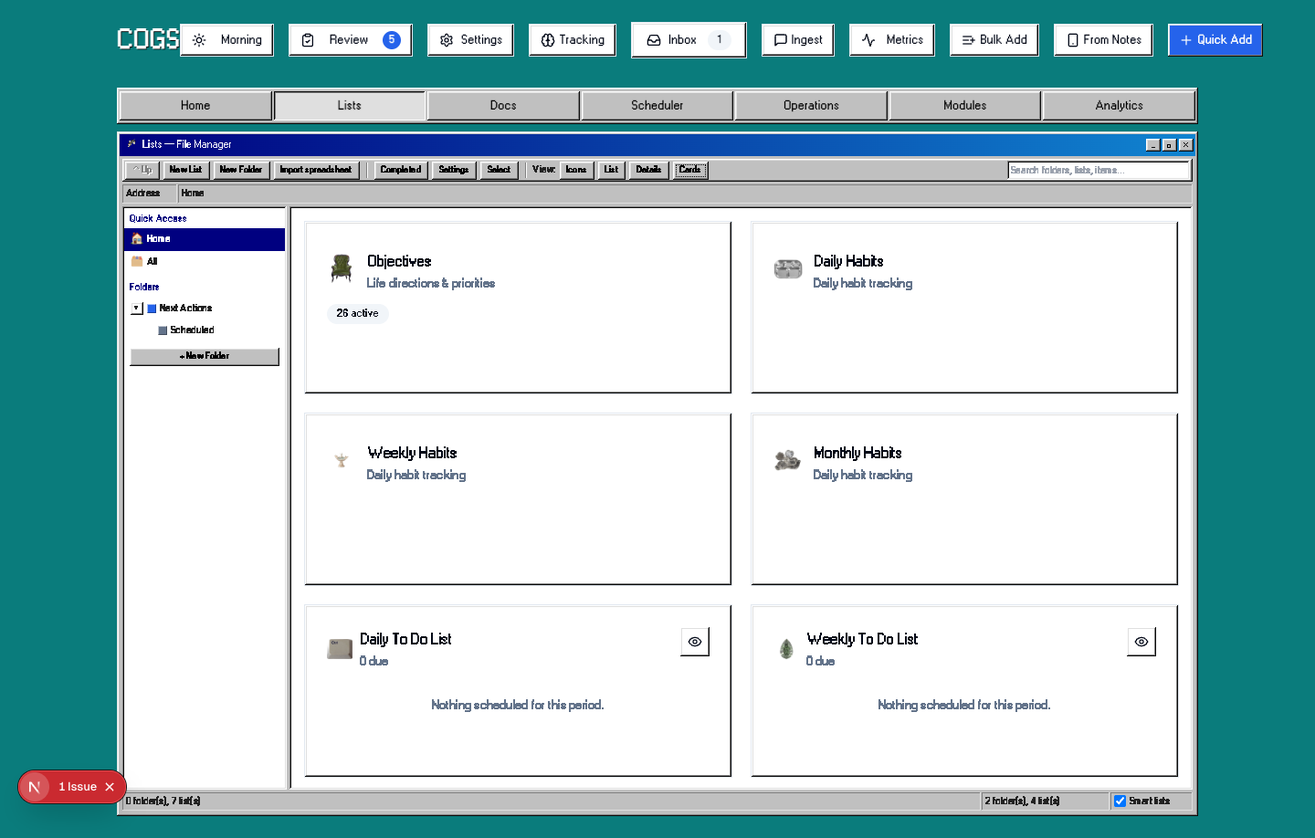
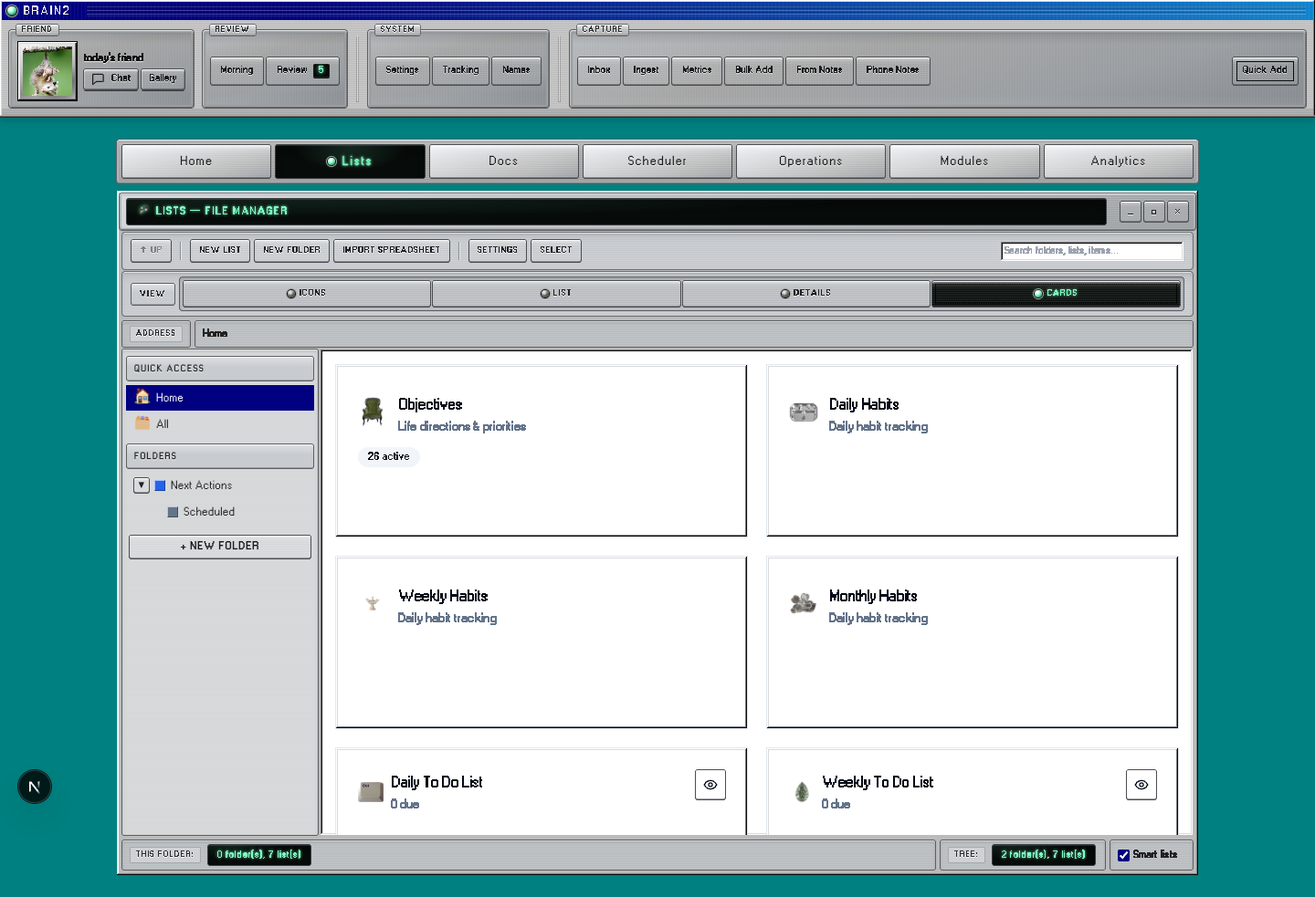
Document schedule roll-up, inbox slices, Details without ticks, and the new shots.
SPEC_MAPPING §4.4 records Select N, Select unsorted, the / Dated-or-Bare slice,
shift-click range, the sitting foot, and the heavier phosphor at 10 or more.
§5 Details has no complete or missed ticks. §7 records shared Scheduler
selection, quiet Mark complete, the 1-point period placement, and Eventually.
§7.7 carry-over is rollUpExpiredSchedules (day → week → month → year →
unscheduled) on hydrate, local midnight, and visibility, with schedulePlacements
kept and push counters untouched.

DESIGN_STYLE notes the unsaved-changes fascia (.w95-confirm) and the Lists
view-key bay. CANONICAL_FIELDS lists schedulePlacements. tree.md / tree.txt
name eventually-list, schedule-credit, day-clock, and use-day-rollover.
lib/README and hooks/README match. The root README and components README
point at the in-place Lists jump.

Screenshot PNGs and sidecars were recaptured for Lists (folder, list, cards,
checklist, default, spreadsheet, details) and Scheduler, plus the inbox dialog
sidecar. capture-screenshots.mjs and screenshot-manifest.mjs follow those frames.

The GitHub remote remains https://github.com/entropyviolation/cogs.git after
the repository rename. Chrome stays BRAIN2; these docs do not move the
Electron vault off Application Support/cogs.

diff --git a/lib/README.md b/lib/README.md
@@ -53,7 +53,7 @@ and stay. The product name is **Brain2** / **BRAIN2**.
 | `planned-action-store.ts` | `brain2-planned-actions` | Day-agenda **planned actions** (timed intentions): free drag-created blocks plus To Do / daily-habit placements. Not events; habit drop does not complete the habit. `cogs-planned-actions` alias. Types + drop helpers in `planned-actions.ts`. | §7.4 |
 | `habits-store.ts` | `brain2-habits-store` | Habit definitions (`WeeklyTask`, persisted `gem`), per-day completion data (`WeeklyData`), weekly/monthly period completions, habit categories, **gradeTolerance** / **outputGradeTolerance**, **gradeTubeColor** / **outputGradeTubeColor** (Week/Span vs Perfect output discharge hues), daily **accomplishmentThreshold** / **accomplishmentBonus**, **dayGradeLiftBonus** / **weeklyGradeLiftBonus** (persist **v21**), priority blend toggles, heatmap / **Day View** / **Hide Completed Today** / **Loading Bar** / **Small LEDs** / sort prefs, **willpowerImage**, **habitGems**, **percentLedTint**, **habitsControlPanelWidth**, **willpowerPhysicsHud**, **willpowerPhysics**, **contentRev**. Persist **v19** bumps `contentRev` on title, detail, and completion writes so a late rehydrate cannot restore the previous snapshot; hollow live maps still overlay disk completions so grades keep their checklist. Each completion cell also stores `updatedAt`; a merge keeps a cell the other snapshot lacks, and the newer stamp wins, so a second window's gem stamp cannot uncheck a habit. Persist **v18** resets leftover `willpowerPhysics` knobs to the calm default whirl. Persist **v17** pins control panel width compact (seam retired). Persist **v16** adds control panel width + Willpower gems physics lab. Persist **v15** adds `habitSmallLeds` (default on; Willpower gems satellites are derived from that week’s completions). Daily completions upsert 50×ratio points + accomplishment and grade bonuses (`lib/habit-points.ts`). Climb migrate v3. Done log. `applyTrackedValue` writes the Tracking auto-fill half of a day, week, or month. Manual completions push onto `action-history.ts` (Cmd/Ctrl-Z). | §9 |
 | `goals-store.ts` | `brain2-goals-store` | All-time **Objectives** (prioritizable per period with custom point multipliers; written period reviews) + quantifiable **Goals** that serve them. Seeds 26 default objectives + example goals (persist v3). Exports the multiplier helpers `objectiveMultiplierFor`/`taskObjectiveMultiplier` + `DEFAULT_OBJECTIVE_MULTIPLIER` (1.5×). | §10 |
-| `points-store.ts` | `points-store` | Points ledger (`PointsEntry[]`), `addPoints` / `upsertPoints` / `removePointsForTask` (drop a task's rows for one local day — completion-popup Undo), day/week/month totals, possible-points projections. Local `YYYY-MM-DD` keys. Inbox handling writes here via `inbox-credit.ts`. | §14 |
+| `points-store.ts` | `points-store` | Points ledger (`PointsEntry[]`), `addPoints` / `upsertPoints` / `removePointsForTask` (drop a task's rows for one local day — completion-popup Undo), day/week/month totals, possible-points projections. Local `YYYY-MM-DD` keys. Inbox handling writes here via `inbox-credit.ts`; Scheduler period placements via `schedule-credit.ts`. | §14 |
 | `time-tracking-store.ts` | `brain2-timegrid-store` | TimeGrid views and pens (Activity / Location / Mood / **Company** / **Screen Time** / **iPhone Screen Time** / **iPhone Calls** / **iPhone Texts**), minute-resolution `TimeEntry[]` (`penId` primary + optional `secondaryPenIds`, optional display `title`, optional `kind: "instant"` discrete events, `splitAfter` scissors seams), pen **parents** + **image** mosaic, per-view **displayDepth**, **hidden pens**, **one Infinite scroll** (`infiniteScroll`; v10 migrates the old day/week flags), **Recent** sort, per-pen **variants** and **actionFormats**, cell size and span, the cross-scope **tag** library, per-day **`dayNotes`** (mirrored append-log JSON — the jot itself is `brain2-tracking-day-notes`), **untracked-gap notes**, confirmed Day Log events, and block **`precision`**. Persist **v12** appends iPhone Screen Time / Calls / Texts without switching `activeScopeId`. Persist **v11** appends Screen Time (category roots only) without switching `activeScopeId`. Optional new fields need no bump. `removedEntryIds` records blocks removed on purpose so a union cannot paint them back. `paintMinutes` wraps past midnight. Data writes push onto `action-history.ts`. Screen Time prefs are **not** in this blob. | §12 |
 | `day-notes-persist.ts` | `brain2-tracking-day-notes` | Tracking bottom-notes vault. Tiny `YYYY-MM-DD → append-log JSON` map written on submit and hub-synced on that key (shrink-protected). Not rewritten into the huge timegrid blob per submit. **Both aliases are read and unioned by entry id**, and a seed / hub copy of a day already on file unions too, so no copy of an append log is ever the loser — that heals a pair split by a quota-failed write. | §12 |
 | `screentime/prefs.ts` | `brain2-screentime-prefs` | ActivityWatch connection + sync knobs (URL, lookback, min duration, window titles off by default, last success, honest `lastSyncNote`). Dedicated key — not inside the timegrid blob. | §12 |
@@ -161,20 +161,23 @@ and stay. The product name is **Brain2** / **BRAIN2**.
 | `migrations.ts` | Versioned data migrations for the unified Item model — v7 backfills `title`/`tags`/`links` and does not invent `type`; v11 fills in a `title` for records that still have only a `description`; **v12** fills a missing `type` (Next Actions or inbox → `"task"`, else `"item"`). Never overwrites an explicit type or a name a person typed. | §5 |
 | `completion-status.ts` | Keeps the legacy boolean `completed` and the richer `CompletionStatus` (active/partial/deferred/cancelled/missed/done) in sync via the single invariant `done ⇔ completed`. `"missed"` is too-late: `isClearedFromWork` (done or missed) drops the row from To Do / Next Actions. Pure `withStatus`/`withCompleted` + status labels; callers persist through `updateTask`. | §6 |
 | `available-tasks.ts` | Unmet-dependency predicate (`hasUnmetDependencies` / `isAvailableNow`). Shared by Scheduler `getAvailableTasks` and To Do Available now. Ghost ids do not block. Done **or** missed-opportunity deps do not block. | §7, §8.4 |
-| `completion-events.ts` | Tiny pub/sub completion event bus (`onTaskCompleted`/`emitTaskCompleted`/`requestTaskCompletion`). `task-store.updateTask` emits on every false→true completion so the global popup appears. Checklist ticks call `requestTaskCompletion` first (`pending: true`) so Undo / dismiss leave the box unchecked. | §6 |
+| `completion-events.ts` | Tiny pub/sub completion event bus (`onTaskCompleted`/`emitTaskCompleted`/`requestTaskCompletion`). `task-store.updateTask` emits on every false→true completion so the global popup appears, unless wrapped in `runWithoutCompletionPopup` (Scheduler batch Mark complete). Checklist ticks call `requestTaskCompletion` first (`pending: true`) so Undo / dismiss leave the box unchecked. | §6 |
 | `list-tree.ts` | Pure nested-list (sublist) forest helpers over `List.parentListId`: ancestors/descendants, render-tree builder, and cycle/dangling-parent-safe `moveList`. | §6.2 |
 | `list-links.ts` | Directed **connected-list** membership (`List.linkedTargetListIds`, not nesting): expand `Task.lists`, honor `listMembershipExclusions`, symmetric settings view, unlink without mass-delete. [`LIST_LINKS.md`](../components/Lists/LIST_LINKS.md). | §6 |
 | `molecular.ts` | Pure, immutable `Subtask[]` tree helpers for "molecular" task decomposition — recursively split a task into atomic (`isMolecular`) steps, each with a self-contained `context`. Backs the "Just Start" focus flow. | §1/§59/§128 |
 | `priority.ts` | Transparent, entropy-aware priority formula: weighted blend of urgency/importance/cognitive-load/entropy with `priorityBreakdown` so the UI can explain *why* a task ranks where it does. `DEFAULT_PRIORITY_WEIGHTS`. | §6 |
-| `scheduling.ts` | Canonical schedule-field helpers (`scheduleFieldsForPeriod`, `clearedScheduleFields`) shared by the Scheduler UI and the scheduling service. | §7 |
+| `scheduling.ts` | Canonical schedule-field helpers (`scheduleFieldsForPeriod`, `clearedScheduleFields`, `isPastFunnelPeriod`, `rollUpScheduleFields` / `rollUpScheduleFieldsCascaded`, `isExpiredDaySchedule`) shared by the Scheduler UI and the scheduling service. Unfinished past periods roll up one level (day→week→month→year→unscheduled) and record `schedulePlacements`; today and later, and done/missed rows, are not rolled. | §7 |
+| `day-clock.ts` | Local calendar-day key. `noteDayClock` notifies listeners only when the date changes, so Always Today/Tomorrow can follow midnight. | §7 |
+| `eventually-list.ts` | Next Actions list named `eventually` (`na-eventually`, reuses a same-named list). Scheduler Eventually / Later files tasks here with no period. | §6, §7 |
 | `smart-parse.ts` | Pure, LLM-free smart-capture parser: leading colon paths (`list: item`, `folder: list: item`), `parsePathHeader` for Bulk Add, plus dates/times/priority/duration/`cat:` hints and `-mb` / `-monkey` (Monkey brain) → `SmartSuggestion` + highlights. `now` injectable. | §4, §10 |
-| `inbox-batch.ts` | Inbox list order (`sortInboxNewestFirst`), walk queue (`walkQueueIds` = current selection only, `nextWalkId`, `rotateInboxQueue`, `renameInboxIdea`) + multi-select targets + batch list/deadline/delete/clarify/partition patches (`deleteInboxItems`, `clarifyInboxItems`, `setInboxMonkeyBrain`, `inInboxPartition`, `inboxAllSelected`). Monkey brain is `Task.monkeyBrain` on `stage: "inbox"`. Merge stays in `item-merge.ts`. Keyboard chords for `components/inbox.tsx` (`a` all, `u` none, `y` mark clarified, `b`/`i` move piles, `e` bulk edit, `#` delete). | §4.4, §4.5 |
+| `inbox-batch.ts` | Inbox list order (`sortInboxNewestFirst`), walk queue (`walkQueueIds` for a selection, `rotateInboxQueue` when walking the caret, `nextWalkId`, `renameInboxIdea`), bare/dated slices (`isBareInboxCapture`, `isDatedInboxCapture`), `pickRandomInboxIds`, `rangeSelectIds`, `inboxTitleLines`, plus batch list/deadline/delete/clarify/partition patches. Monkey brain is `Task.monkeyBrain` on `stage: "inbox"`. Chords: `a` all, `n` select N, `s` unsorted, `/` slice, `u` none, `y` file, `b`/`i` move piles, `e` bulk edit, `#` delete, `w` walk. | §4.4, §4.5 |
 | `inbox-credit.ts` | +1 point for clarifying or discarding an Inbox idea; +50 each time the **revisit** Inbox reaches 0 open ideas (Monkey brain does not count). Writes `points-store`. | §4.4, §14 |
+| `schedule-credit.ts` | +1 point when a Scheduler placement **changes** a task's period bucket (Always cards / funnel cells). Eventually / Later, same-bucket re-drops, unschedule, and remove-from-scheduler do not award. Writes `points-store`. | §7, §14 |
 | `inbox-recent-lists.ts` | Persist last-used list ids (`inbox-recent-list-ids`) + suggest them (then newest item lists) for the Walk picker. | §4.4 |
 | `capture-target.ts` | Resolve/create folders+lists from a capture path and build the task (Inbox vs skip-Inbox / All Items). `-mb` / `-monkey` forces Inbox and sets `monkeyBrain`. Used by Quick Add and Bulk Add. | §4 |
 | `apple-notes.ts` | Apple Notes ingest: period ranges, HTML strip, preview/snippet/body fetch via Electron `window.desktop.fetchAppleNotes` or localhost `/api/notes` (same `electron/apple-notes.js` reader), bulk-add draft/parse (`parsePathHeader` headers — `Folder: List:` creates a new folder by name), park-to-**notes to ingest** (`ensureIphoneNotesIngestDestination`), Telegram Shortcut park-to-**iPhone Notes Store** / **Parked** (`ensureIphoneNotesStoreDestination`, `iphone:` ids), skip already-ingested ids. UI: `notes-ingest.tsx` + `iphone-notes-store.tsx`. | — |
 | `ingest/` | Phone-message ingest (Telegram first): dedupe, parser, text triggers, shortcuts, capture/habit/tracking/grocery/`needed:`/`get:`/notes writes, discrete events + activity spans (`generatedBy.kind === "text"`), **iPhone Screen Time / Calls / Texts** (`apply-phone-screen.ts`, `apply-phone-life.ts`), list/folder/inbox **read-back**, pairing, log store, always-on hub, receipt OCR + journal/PDF Docs scans. Grocery verb **`groc`** (bare `g` retired). See [`ingest/README.md`](ingest/README.md) and [`docs/MESSAGE_INGEST.md`](../docs/MESSAGE_INGEST.md). | §4 |
-| `app-navigation.ts` | App-wide navigation persistence: localStorage keys + `readStoredTab`/`writeStoredTab`, optional ids, JSON records, calendar dates, and `ui-scroll` offsets so a refresh returns the user to their last tab/folder/period/view **and** scroll (Docs `docs:<id>`, folder homepage, sidebar, Analytics canvas, Operations `ops:<id>:<panel>`). `writeStoredTab` also POSTs the pin to `/api/persist` on localhost so the shared file does not keep an older Home tab (it was stuck on Tracking while this profile had already switched to Habits). | — |
+| `app-navigation.ts` | App-wide navigation persistence: localStorage keys + `readStoredTab`/`writeStoredTab`, optional ids, JSON records, calendar dates, and `ui-scroll` offsets so a refresh returns the user to their last tab/folder/period/view **and** scroll (Docs `docs:<id>`, folder homepage, sidebar, Analytics canvas, Operations `ops:<id>:<panel>`). `writeStoredTab` also POSTs the pin to `/api/persist` on localhost so the shared file does not keep an older Home tab (it was stuck on Tracking while this profile had already switched to Habits). Lists jumps use `applyListsNavigation` / `requestNavigateToList` (persist + `cogs-navigate-to-list`) so a mounted Lists view updates in place — the shell does not remount Lists. | — |
 | `use-persisted-tab.ts` | Restore a Radix tab after mount so the stored value wins over the SSR fallback. | — |
 | `use-persisted-scroll.ts` | Restore a scroller's `scrollTop` after remount / refresh (`ui-scroll` slots). Skips the `scrollTop: 0` collapse when a Radix tab hides. | — |
 | `use-current-date.ts` | Shared Home calendar cursor. Persists the chosen day; midnight advances only while that cursor is still today. | — |
@@ -258,7 +261,7 @@ Zod validates writes/imports at the boundary.
 | `data/schemas.ts` | Zod schemas for `Task`/`TaskCategory`/`CategoryFolder`/`ItemLink`/`Subtask`/attribute values + the full store snapshot; `parseOrThrow` and `ValidationError`. Permissive about optional/legacy fields — **except `itemLinkSchema`, which is strict**, so a field missing from it is dropped rather than passed through. `stance` + `weight` (belief graph) and `Subtask.isMolecular` + `context` (molecular steps) are listed for that reason. | §5 |
 | `data/task-repository.ts` | `taskRepository`: canonical CRUD + query API over the task store (item records); validates writes via Zod. Includes tag/link ops (`byTag`/`addLink`/`removeLink`). Implementation is still `task-store`. | §4–§7 |
 | `services/completion-service.ts` | `completeTask`/`uncompleteTask`/`toggleCompletion`/`markMissedOpportunity`/`unmarkMissedOpportunity` — completion and too-late semantics incl. repeated-"count" tasks and actual-duration capture (points still awarded in the store on **done** only). Missed does not award points or fire the completion popup. Pushes onto `action-history.ts` so Cmd/Ctrl-Z reopens the item. The completion popup **Undo** calls `uncompleteTask` and then `removePointsForTask`. | §6 |
-| `services/scheduling-service.ts` | `scheduleTask`/`scheduleTaskToTime`/`clearScheduledTime`/`unscheduleTask`/`pushTask` — scheduling workflows delegating to `scheduling.ts` + `item-utils.ts`. | §7 |
+| `services/scheduling-service.ts` | `scheduleTask`/`scheduleTaskToTime`/`clearScheduledTime`/`unscheduleTask`/`pushTask`/`rollUpExpiredSchedules` — scheduling workflows delegating to `scheduling.ts` + `item-utils.ts`. Roll-up moves unfinished past periods one level coarser and keeps prior placements on `schedulePlacements`. | §7 |
 | `services/review-service.ts` | `savePeriodReview`/`getPeriodReview`/`upsertPeriodReview` — period-review persistence over `useReviewsStore` (stable id `${period}:${key}`). | §6 |
 | `workflow-hooks.ts` | Dependency-free mutation seam: `dispatchItemMutation`, `addItemMutationListener`. `task-store` fires create/update/complete. | §5 / §8 |
 | `workflow-engine.ts` | Module workflow evaluation (`dispatchWorkflows`) with a re-entrancy cap. | §8 |
@@ -301,7 +304,7 @@ Zod validates writes/imports at the boundary.
 | `pdf-to-html.ts` | pdfjs PDF → editable Docs HTML (best-effort for text PDFs). | §5 |
 | `folder-tree.ts` | Nested folder sidebar helpers: tree build/flatten, editable-folder guards, scheduled-folder sort. Unit-tested. | §6 |
 | `folder-membership.ts` | List↔folder filing: direct `Folder.listIds` (many-to-many), inherited ancestor folders for **Show nested**, cycle/scheduled guards. Not `parentListId`. See [`LIST_FOLDERS.md`](../components/Lists/LIST_FOLDERS.md). | §6 |
-| `item-selection.ts` | Add/move/remove items across lists. `clearItemsFromList` strips one list id from every item (membership only; does not delete). List Settings **Clear list** then `updateTask`s so connected-list exclusions stick. | §6 |
+| `item-selection.ts` | Add/move/remove items across lists. `placeTaskIntoDestinationLists` supports search Move (no single origin: keep dests, drop other movable memberships). `clearItemsFromList` strips one list id from every item (membership only; does not delete). List Settings **Clear list** then `updateTask`s so connected-list exclusions stick. | §6 |
 | `append-log.ts` | Shared **append log**: immutable `{id, createdAt, text}` entries in a `v: 1` JSON envelope (optional unsubmitted `draft` for Plan). Stamp `9/20 9pm`; List / Bulk / Latest (`appendLogView`, fallback `planTextView`); leftover plaintext becomes one "earlier" entry. Used by Plan and Tracking day notes. | §7, §12 |
 | `plan-text.ts` | Plan period keys on the shared append log (`dayPlan-*` / `weekPlan-*` / `monthPlan-*`). Writes through `cogsStateStorage` (Chrome persist hub; Electron may POST these unprefixed keys so an empty hub tombstone cannot re-seed). Unsubmitted composer text is `draft` on the same key. Empty string values are skipped. Month keys canonicalize to local `YYYY-MM` (unpadded `YYYY-M` migrates). Week keys accept both Monday–Sunday ranges and ISO `YYYY-Www`. Target: MongoDB `plans`. | §7 |
 | `folder-all-items.ts` | Per-folder **All Items** (`__all-items__{folderId}`) plus Home All prefs (`__all-items__root`): ensure records exist, assign uncategorized folder items, folder drop helpers. View prefs persist on those backing lists. See [`FOLDER_ALL_ITEMS.md`](../components/Lists/FOLDER_ALL_ITEMS.md). | §6 |

diff --git a/docs/SPEC_MAPPING.md b/docs/SPEC_MAPPING.md
@@ -185,20 +185,23 @@ ten-slice build: [`ScienceandSanityBrain2.md`](ScienceandSanityBrain2.md)
   messengers and Atlas-backed ingest are 🕓 later.
 - §4.4 Clarification — 🟡 `components/inbox.tsx` (`TaskClarificationDialog`).
   Open ideas are listed **newest first** (`sortInboxNewestFirst`).
-  Keyboard **Walk selected** steps only the current checkbox selection
-  (Select all / Deselect all) through that same dialog: rename, Discard
-  idea, Skip / Save & next, recent lists pinned at the top (`#244`).
-  Clarifying or discarding awards **1 point**; emptying the revisit Inbox awards
-  **50** (`lib/inbox-credit.ts`). Multi-select applies list, deadline,
-  merge, **Apply and clarify** from the list popup (file onto the chosen lists
-  and leave Inbox; **Apply** alone keeps them in the pile), **Mark clarified** (onto assigned lists, or All Items when none),
-  **Monkey brain** / **To inbox**, **Bulk edit** (the selection as bulk-add
-  text), or **delete** after an Are you sure? warning (`lib/inbox-batch.ts` +
-  `lib/item-merge.ts`, `#243`). **Monkey brain** is a second Inbox partition
+  Keyboard **Walk** starts at the caret when nothing is checked, and **Walk selected**
+  steps the checks (Select all / **Select N** / **Select unsorted** / Deselect).
+  `/` slices the pile to Dated or Bare. A navy bar is the caret; a filled well
+  is the selection. Click the words; shift-click ranges.
+  Clarifying, filing, or discarding awards **1 point**; emptying the revisit Inbox awards
+  **50** (`lib/inbox-credit.ts`). The foot counts this sitting. The walk sheet stays
+  mounted for the queue, and the pile behind it does not repaint until the walk
+  ends. After a check: Apply list, due,
+  merge (two or more), **File** (onto assigned lists, or All Items when none),
+  **Monkey brain** / **To inbox**, **Bulk edit**, or **delete** after Are you sure?
+  (one row’s trash asks the same way). **Apply and clarify** from the list popup
+  files onto the chosen lists and leaves Inbox; **Apply** alone keeps them in the pile
+  (`lib/inbox-batch.ts` + `lib/item-merge.ts`, `#243`). **Monkey brain** is a second Inbox partition
   for compulsive dumps (`-mb` / `-monkey` on Quick Add and Telegram); it does
-  not count as the revisit pile. Selection
-  outline is navy `#000080` (never orange). Still task-only (no type
-  switching among task/note/event/log).
+  not count as the revisit pile. The partition name stays the resting ink color;
+  the lamp and CRT count still change. A count of 10 or more uses a heavier phosphor.
+  Still task-only (no type switching among task/note/event/log).
 - §4.5 Inbox vs. review queue — ✅ Inbox exists, the Review header surfaces pending
   period reviews, and a separate **Needs Attention** queue ships on Home
   (`components/Home/NeedsAttention.tsx` over the pure selector in
@@ -322,6 +325,8 @@ ten-slice build: [`ScienceandSanityBrain2.md`](ScienceandSanityBrain2.md)
   opt-in in List Settings → View mode settings → Checklist view mode settings.
   Details table columns are chosen in **Details view mode settings**
   (`List.detailsColumns`, independent of Spreadsheet `sheetConfig.columnIds`).
+  Details has no complete/missed ticks (Checklist only); Select mode still
+  overlays selection checkboxes. Name + Open stay as chrome.
   Ticking Completed opens the reflection dialog before the completion sticks.
   Default display is a reading row (status pip, not a complete checkbox).
   Per-list Default chrome is optional in View mode settings → Default view
@@ -336,7 +341,12 @@ ten-slice build: [`ScienceandSanityBrain2.md`](ScienceandSanityBrain2.md)
 
 ## §7 Scheduler & Calendar — ✅/🟡
 - Period funnel Always→Year→Month→Week→Day — ✅
-  `components/Scheduler/enhanced-scheduler.tsx`.
+  `components/Scheduler/enhanced-scheduler.tsx`. Shared selection: drag of a
+  selected task schedules the whole selection (`taskIdsForDragSchedule`);
+  **Deselect all** clears checks only; **Delete** / **Mark complete** act on the
+  selection (complete is quiet — no popup stack). Placing a task into a real
+  period bucket awards **1 point** when the assignment changes
+  (`lib/schedule-credit.ts`); Eventually / Later does not.
 - Calendar Month/Week/Day views — ✅ `components/Home/Plan/*`. Month / week /
   day rails share `planned-tasks-sidebar.tsx` (period-planned todos +
   incomplete period habits + Lists **Next Actions** workable in that period,
@@ -370,8 +380,14 @@ ten-slice build: [`ScienceandSanityBrain2.md`](ScienceandSanityBrain2.md)
   Events** — ✅ `paste-events-dialog.tsx` + `lib/parse-event-text.ts` turns
   unstructured itinerary text into bulk-editable calendar events.
 - §7.6 Auto-scheduling — 🕓 deferred (constraint fields retained on `Task`).
-- §7.7 Carry-over logic — 🟡 partial: Review dialog offers push-forward per task;
-  no automatic end-of-period carry-over batch.
+- §7.7 Carry-over logic — 🟡 partial: unfinished periods that have ended roll up
+  one level on the funnel (`rollUpExpiredSchedules` on hydrate, local midnight,
+  and when the window becomes visible): day → that week, week → that month,
+  month → that year, year → fully unscheduled. Prior placements stay on
+  `schedulePlacements` for gray past cells and analytics. Automatic roll-up does
+  not increment push counters. Tomorrow's stored date becomes Today when that
+  date arrives. An explicit push writes the next period and wins. Completed and
+  missed stay put. Review and To Do still offer push-forward per task.
 
 ## §8 Home Dashboard — ✅/🟡
 - Tabbed dashboard (Habits/Plan/To-Do/Goals/**Tracking**) + top bar — ✅
@@ -918,7 +934,8 @@ ten-slice build: [`ScienceandSanityBrain2.md`](ScienceandSanityBrain2.md)
 ## §14 Points, Rewards & Regret — 🟡
 - Points ledger — ✅ `lib/points-store.ts` (task/habit/goal completions,
   Inbox **+1 per handled idea** and **+50 when the Inbox hits 0** via
-  `lib/inbox-credit.ts`,
+  `lib/inbox-credit.ts`, Scheduler **+1 per changed period placement** via
+  `lib/schedule-credit.ts`,
   `upsertPoints` for revisable daily-habit scores, day/week/month totals + possible).
   Daily habits: 50 × that day’s completion ratio; user accomplishment bonus if that day’s raw column
   score meets `accomplishmentThreshold` (default ≥80% → +50); +100 if either Week grade or Perfect output is 75%+ that
@@ -1085,8 +1102,9 @@ Spec-facing remainder, still true, but **not** the next checkout:
    `SyncingDataSource` (JSON backup/restore already ships; the local store stays
    the offline source of truth). Local selective restore and rolling
    `data/recovery-backups/` as a first-class source are in the plan before Atlas.
-4. **§7.7** Automatic end-of-period carry-over (Reviews already offer per-task
-   push-forward) — after Scheduler’s window chrome exists.
+4. **§7.7** Automatic end-of-period carry-over — 🟡 partial: unfinished periods
+   roll up one funnel level (`rollUpExpiredSchedules`); Reviews still offer
+   per-task push-forward.
 5. **§15** Predictive analytics still deferred. Category performance (**Lists &
    areas**) and cognitive-state (**Mood field**) now ship as Analytics studio
    views. Honesty (sample-size, shared range, chart → Lists) shipped in Wave 1;

diff --git a/components/README.md b/components/README.md
@@ -20,7 +20,7 @@ The build that extends the map is [`docs/ScienceandSanityBrain2.md`](../docs/Sci
 | Home | `Home/` | Dashboard: habits (incl. weekly/daily climb cadences), plan, to-do, goals, tracking |
 | Lists | `Lists/` | Milled Explorer frame + velvet Icons cabinet (orbs, auto-organize) |
 | Docs | `Docs/` | WYSIWYG document workspace over `note` items (fonts, images, PDF ingest) |
-| Scheduler | `Scheduler/` | Win95 window around the period funnel (Always → Year → Month → Week → Day) + Gantt / Dependencies documents |
+| Scheduler | `Scheduler/` | Win95 window around the period funnel (Always → Year → Month → Week → Day). Always is two columns of drop cards, including Eventually / Later. Today/Tomorrow are real dates. + Gantt / Dependencies documents |
 | Operations | `Operations/` | Graphic tool for a project (work, ideas, data, progress) — milled fascia command center; category board hides completed/inactive until Show archived; Parts formulas; To do includes phase and part tasks; **Working on this now** logs into Home To Do / Tracking / habits |
 | Modules | `Modules/` | User-built mini-app **workspaces** (Itinerary / House Cleaning / Budget / Book Tasting / Film DNA / GradSearch templates + custom views) and dashboard widgets. Catalog chrome: `.mod95` in `modules-chrome.css`. End goal: **install** any small `.tsx` app as a lens on the same Item graph — [`docs/MODULE_PLATFORM.md`](../docs/MODULE_PLATFORM.md) |
 | Analytics | `Analytics/` | **Heart of the app:** mass personal data → presentation, analysis, new tools. Light instrument studio over tasks, habits, tracking, sleep, goals, operations, item library (title+status stay Lists; Karla on `#c0c0c0` gray; custom range; pies, horizon, ridgeline, violin, alluvial, UpSet) |
@@ -70,7 +70,7 @@ The global header (all tabs **and** item detail) is a **pinned mill title bar** 
 | `notes-ingest.tsx` | From Notes (`data-ui-name="From Notes"`) — date range, title+body preview, parse/skip; close/reopen keeps the session (listing continues); bulk-add (`ListName:` then items, or `Folder: List:` to create a folder) or park full text on **notes to ingest**. Dialog shell `.hpp95`. |
 | `iphone-notes-store.tsx` | Phone Notes (`data-ui-name="Phone Notes"`) — queue of On My iPhone notes dumped via Telegram Shortcut onto **iPhone Notes Store** / **Parked**; bulk-add (same header syntax), keep parked, skip, Open in Lists. Dialog shell `.hpp95`. |
 | `ingest-log-dialog.tsx` | Header **Ingest** (`data-ui-name="Ingest"`) — log of phone-message ingest (applied / clarify / ignored). Pairing lives in Settings. Dialog shell `.hpp95`. |
-| `inbox.tsx` / `inbox.css` | Inbox dialog (`data-ui-name="Inbox"`; nested clarify is `"Clarify idea"`): **milled fascia** (brushed silver bay, engraved uppercase nameplates, raised metal keys, CRT count wells `#7dffc4`, round power lamp on the active partition). **Inbox** (revisit) and **Monkey brain** (dump) as equal bay keys. Open ideas in the current pile, **newest first**. Walk **selected** ideas (`TaskClarificationDialog` — rename, discard, recent lists), +1 / +50 when the revisit Inbox hits 0, Select all / Deselect all, multi-select → list (**Apply** stays in Inbox, **Apply and clarify** files onto those lists) / deadline / merge / **Mark clarified** / move between piles / **Bulk edit** / **delete** (Are you sure?). Navy selection outline. Looks only — same verbs and accessible names. |
+| `inbox.tsx` / `inbox.css` | Inbox dialog (`data-ui-name="Inbox"`; nested clarify is `"Clarify idea"`): **milled fascia** (brushed silver bay, engraved uppercase nameplates, raised metal keys, CRT count wells `#7dffc4`, round power lamp on the active partition). Partition names stay the resting ink color; the lamp and the count still light. **Inbox** (revisit) and **Monkey brain** (dump) as equal bay keys. Open ideas in the current pile, **newest first**, one hairline row in a sunken well (~12 visible). A navy bar is the caret; a filled well plus a check is the selection. Click the words to select; shift-click ranges. Pencil and trash sit on the caret row only. At rest: Select all, **Select N** (random, or all if the number is larger), **Select unsorted** (name only), a Dated/Bare slice (`/`), and **Walk** from the caret. After a check: Apply list, Due, **File**, Monkey brain / To inbox, Bulk edit, Delete. Merge at two or more. Keys that cannot press are absent. One-row trash asks the same Are you sure? as Delete. Sticky day plates; the clock is the row’s time; a trailing parenthetical is a quieter second line. The foot counts this sitting. Walk keeps one sheet up for the whole queue (the pile behind it does not repaint until the walk ends). Clarify leads with recent lists. |
 | `cognitive-state.tsx` | Header **Tracking** button; opens `WorkingNowStrip` + `TimeGrid` in a dialog (name kept for wiring compatibility). Dialog frame `.hpp95-shell-only` (caption + bay; grid interior untouched). |
 | `baby-animal-nest.tsx` | **Today's friend** (`data-ui-name="Today's friend"`, docs `docs/FRIEND_COMPANION.md`) in the pin-bar brand well — photograph, chat button, Gallery. Click the photograph for details. Chat asks for a mission (a short CRT power-on on the well; `prefers-reduced-motion` skips it). Click the bubble for the mission sheet. Esc / × / outside closes the bubble without declining. An accepted finish opens a cheer |
 | `baby-animal-nest.css` | Friend nest, chat mark, Stardew bubble, mission sheet, and cheer styles; CRT power-on keyframes scoped to `.baby-nest-crt.is-powering`. The instrument’s paint is `friend-details/friend-details.css` |

diff --git a/docs/tree.md b/docs/tree.md
@@ -297,11 +297,11 @@ Explorer frame in `filemanager98.css`):
 | --------------- | ------------------------------------------------------------------------ |
 | `hooks/`        | `useListsNavigation`, `useListsSearch`, `useListsDragDrop`, `useListsSelection`, `useListsTaskActions` |
 | `navigation/`   | `FolderTree.tsx`, `BreadcrumbNav.tsx`                                     |
-| `views/`        | `FolderViewIcons.tsx` + test, `FolderViewList/Details/Cards.tsx`, `SearchResultsView.tsx` |
+| `views/`        | `FolderViewIcons.tsx` + test, `FolderViewList/Details/Cards.tsx`, `SearchResultsView.tsx` + select-mode test |
 | `list-content/` | `ListContentPanel/Default/Checklist/Icons/Details/Spreadsheet.tsx`, `SheetFullscreen.tsx`, `AllViewCheckboxFilter.tsx`, `ListMissedButton.tsx` |
 | `dialogs/`      | `New/Edit List & Folder`, `InFoldersEditor`, `ConnectedListsEditor`, `ChecklistViewSettings` (view-mode host), `DefaultViewSettings`, `DetailsViewSettings`, `ListRulesEditor`, `CsvImportDialog`, `OrbPickerDialog` |
 | `attributes/`   | `AttributeSchemaEditor`, `AttributeSettingsDialog`, `AttributeValueField`, `AttributeValuesEditor`, `helpers.ts` |
-| `toolbar/`      | `ListsToolbar.tsx`, `ToolbarSearch.tsx`, `ViewModeControls.tsx`           |
+| `toolbar/`      | `ListsToolbar.tsx`, `ToolbarSearch.tsx`, `SelectionToolbar.tsx` (+ folder-search test), `ItemSelectionToolbar.tsx`, `ViewModeControls.tsx` (mode deck) |
 | `lib/`          | `icon-utils.tsx`, `velvet-icon-grid.ts` (pack-to-width), `lists-location-choice.ts` (clear search on folder nav) |
 
 **Top-level:** `attribute-editor.tsx` (barrel), `settings-dialog.tsx`, `list-picker.tsx` + `list-picker.css`,
@@ -331,13 +331,14 @@ Period funnel: **Always → Year → Month → Week → Day**. Split into orches
 | `scheduler-utils.ts`    | Pure logic — filtering, sort, period queries, grid builders (`lib/available-tasks` for unmet deps) |
 | `GanttView.tsx` / `DependencyGraph.tsx` | Timeline / precedence documents (orbs, not editable) |
 | `SchedulerTaskItem.tsx` | Draggable orb task row                                     |
-| `PeriodCell.tsx`        | Droppable bucket — reserved one-line furniture when empty  |
+| `PeriodCell.tsx`        | Droppable bucket — line furniture, or an Always drop card  |
 | `PeriodFunnelTab.tsx`   | Generic Year/Month/Week tab                               |
-| `AlwaysTab.tsx`         | Always list + filters + overview boxes                    |
+| `AlwaysTab.tsx`         | Always list + two columns of cards (incl. Eventually / Later) |
 | `DayTab.tsx` / `DayAgenda.tsx` | Day sidebar + 24-hour drop-to-hour agenda          |
 | `SchedulerFilters.tsx`  | Collapsible Filters & Sort                                 |
 
 Tasks appear only if in a **scheduleable** list (`TaskCategory.scheduleable !== false`).
+Today / Tomorrow store the local calendar date (`lib/day-clock.ts`). An unfinished period that has ended rolls up one level (`lib/scheduling.ts` `rollUpScheduleFields`, `hooks/use-day-rollover.ts`); prior placements stay on `schedulePlacements`. Eventually / Later files the task on the Next Actions list `eventually` (`lib/eventually-list.ts`) with no period.
 **Could add:** Auto-scheduling (§7.6), event-linked checklists.
 
 → [`components/Scheduler/README.md`](../components/Scheduler/README.md)
@@ -797,6 +798,7 @@ App-wide shared React hooks. Module-specific hooks live next to their UI (e.g.
 | `useQuickCaptureHotkey.ts` | Quick-capture open/close state + in-app capture chord; bridges the Electron global accelerator |
 | `useMessageIngest.ts` | Drain Telegram IPC / `/api/ingest` into `lib/ingest`; album buffer; split long read dumps |
 | `useUndoHotkey.ts` | Cmd/Ctrl-Z last-action undo / Cmd/Ctrl-Shift-Z redo for Home and Tracking; Tracking adds capture-phase `tracking-undo.ts` |
+| `use-day-rollover.ts` | Roll unfinished past period schedules up one level; bump `lib/day-clock.ts`. Mounted from `app/page.tsx` |
 | `useVocalConfidence.ts` | Mic → `AnalyserNode` → `ConfidenceTracker` live `ConfidenceScore` for the Morning affirmations ritual |
 | `use-screentime-sync.ts` | Poll ActivityWatch → Screen Time while Tracking/Analytics are mounted (not the block editor) |
 

diff --git a/docs/DESIGN_STYLE.md b/docs/DESIGN_STYLE.md
@@ -271,8 +271,11 @@ Windows replica to protect. The Explorer verbs stay; the frame is milled fascia:
 - CRT title caption (`Lists — File Manager`) on a brushed silver bay, metal
   caption keys (`_`, `□`, `×`).
 - Brushed toolbar bay: raised metal keys for **↑ Up**, **New List**,
-  **New Folder**, Settings, Select; Icons / List / Details / Cards as equal-fill
-  view keys (active = CRT + round power lamp); Search on the same strip.
+  **New Folder**, Settings, Select, and Search on the first strip; a second
+  **View / Display** mode bay owns the full width (engraved nameplate +
+  recessed key bay). Every key keeps a reserved LED gutter so the active CRT
+  lamp never shoves the label; container queries on the bay switch short codes
+  ↔ full words so labels breathe when wide and never collide when narrow.
 - Address nameplate + path well (`All \ wanted`).
 - Left tree: Quick Access + Folders nameplates, classic explorer indent
   (selection blue stays the quote for the active row).
@@ -637,7 +640,7 @@ compact quadrant + one-row header). Tokens live on `app/win95.css`.
 | Surface | Why it counts |
 |---------|----------------|
 | **Home → Habits Daily (favorite — look here first)** | Most developed room. Metal workstation + Habits Tab Control Panel + analog furniture + Willpower gems (**chrome + black-mirror** oval) + CRT phosphor + designrefs skeuomorph. Extend other interiors from this, not from a card kit. |
-| Lists folder Icons | Velvet + orbs + auto-organize — the cabinet gold standard. **Frame** is milled fascia (CRT title, brushed toolbar bay, equal-fill view keys with power lamps, engraved nameplates, CRT status counts); velvet and orb photographs stay untouched |
+| Lists folder Icons | Velvet + orbs + auto-organize — the cabinet gold standard. **Frame** is milled fascia (CRT title, brushed toolbar bay, Display/View mode deck with reserved LED gutters + container-query labels, engraved nameplates, CRT status counts); velvet and orb photographs stay untouched |
 | Home → Tracking | Milled fascia (CRT title, Time Grid / Activity Log / Day Log bay with power lamps, period nameplate, metal prev/next/today, now bay) + Show/Sort/Expand↔Conceal/New pen rail + photographed pen tray in a metal frame (View settings; default Cat traces; one-line beads + steel plates for copy) + white/gray plot + now/sunrise/sunset lines + photographed title orb |
 | Home dashboard TOP strip | Date + Review due + points + Today's Progress. **Landed:** strip mounts on all five tabs; phosphor wells + CRT on every tab; numerals use shared `--hab-crt-green` (`#7dffc4`) matching Week grade / Perfect output; All Time / Today / Week / Month share the same metal face (no darker All Time plate); equal-height squares wrap (no tray x-scroll); weather analog; Widgets overlay. |
 | Home → Habits Daily | Milled fascia workstation (CRT **Habits** title, Daily/Weekly/Monthly bay with power lamps, period nameplate, metal Settings / New habit) + photographed gems + right **Habits Tab Control Panel** with noble-gas **finger-tube** grade meters (rounded dome) and **Willpower gems** (`.hab95`); contained, not a 100vw white sheet. Recessed panel lamps for Yes/No (**Small LEDs** ON = 15px, OFF = fill the cell; tint as on-color, not blast-white); completion % is a quiet 10-pip milled channel + `%` on one row (numeric LED optional); name column capped so day columns grow (no inner scroller on a wide desk); **Day View** = today + week %; 18px set-stone edit jewel in chrome with no dark disc. **Willpower gems** (canonical): week gems collect small around the crystal; row gem inverts while contributing; plate pinned to the control panel foot; compact column (Physics enlarges the plate); plate click stirs (grab does not press the well); crystal is a solid — gems do not tunnel; PNG occludes stones behind it; gems keep their photographed shape and stay visible past the rim; Physics lab maps the same world onto a larger chrome + black-mirror oval (smooth, live sliders, CRT wells); Settings still changes the crystal |

diff --git a/hooks/README.md b/hooks/README.md
@@ -13,6 +13,7 @@ App-wide reusable hooks for **Brain2** that aren't tied to a single feature.
 | `useQuickCaptureHotkey.ts` | `useQuickCaptureHotkey(options?)` — owns the open/closed state of the quick-capture surface and toggles it on the in-app capture chord (Cmd/Ctrl+Shift+K, distinct from the Cmd/Ctrl-K search palette). Attaches a single `keydown` listener while mounted and bridges an Electron global accelerator via `window.electron?.onQuickCapture` when present (no-op in the browser). Exports `QUICK_CAPTURE_GLOBAL_ACCELERATOR` (`CommandOrControl+Alt+Space`) + `QUICK_CAPTURE_IPC_CHANNEL` for the integration pass (Feature 10). |
 | `useMessageIngest.ts` | `useMessageIngest()` — drains Telegram IPC (or `/api/ingest`) into `lib/ingest/ingestIncomingAsync`, buffers photo albums, chunks replies, pins grocery, yields to `npm run phone:hub`. Vault dump on a timer only hits a live always-on phone hub, never localhost `/api/persist`. Mounted once from `app/page.tsx`. |
 | `useUndoHotkey.ts` | `useUndoHotkey()` — Cmd/Ctrl-Z undoes the last Home/Tracking action (`lib/action-history.ts`); Cmd/Ctrl-Shift-Z / Ctrl+Y redo. Leaves native undo alone when a text field or contenteditable is focused. Mounted once from `app/page.tsx`. Home → Tracking also mounts `components/Home/Tracking/tracking-undo.ts` in the capture phase so a focused timegrid still pops the same stack. |
+| `use-day-rollover.ts` | `useDayScheduleRollover()` — after vault hydrate, at the next local midnight, and when the window becomes visible on a new day, rolls unfinished past period schedules up one level (`rollUpExpiredSchedules`) and bumps `lib/day-clock.ts`. Mounted once from `app/page.tsx`. |
 | `useVocalConfidence.ts` | `useVocalConfidence(options?)` — mic-streaming hook behind the Morning **spoken affirmations** ritual. Owns the `getUserMedia` → `AudioContext`/`AnalyserNode` lifecycle, decimates analysis to `ANALYSIS_INTERVAL_MS`, feeds frames into a `ConfidenceTracker` (`lib/vocal-confidence.ts`), and exposes a live `ConfidenceScore` + mic status (`idle`/`requesting`/`listening`/`denied`/`error`) with `start`/`stop`/`reset`. Audio never leaves the device; degrades gracefully when no mic/permission. See `components/Reviews/README.md`. |
 | `use-attachment-src.ts` | `useAttachmentSrc(uri)` / `useAttachmentSrcList(uris)` — resolve an attachment URI for an `<img src>`. `idb:<id>` (`lib/attachments.ts`) becomes an object URL, revoked on change/unmount; `data:` and `http(s)` pass through. Used by every `image` / `multiimage` attribute render site: the value editor thumbnails, the item-detail hero, and the Modules gallery card. |
 | `use-screentime-sync.ts` | `useScreenTimeSync()` — polls ActivityWatch → Screen Time (~2 min while mounted, on focus, once on mount). Mounted on the Time Grid and Analytics only — **not** the block editor (sleep-lag lesson). Settings **Sync now** calls `syncScreenTime()` directly. Empty success (0 blocks) is not an error. |

diff --git a/README.md b/README.md
@@ -526,7 +526,7 @@ detail: [`lib/README.md`](lib/README.md).
 
 ## Status vs. the v2 spec (summary)
 
-**Implemented in some form:** Inbox (Walk selected + rename/discard + recent lists + +1/+50 points + Select all / Deselect all + multi-select list / deadline / merge / mark clarified / Monkey brain / bulk edit / delete) / Quick Add / Bulk Add (colon paths `list: item` /
+**Implemented in some form:** Inbox (Walk from the caret or Walk selected + rename/discard + recent lists + +1/+50 points + Select all / Select N / Select unsorted + Dated/Bare slice + Apply list / due / merge / File / Monkey brain / bulk edit / delete) / Quick Add / Bulk Add (colon paths `list: item` /
 `folder: list: item`, optional skip clarification) / **From Notes** (this Mac: Apple Notes via Electron or localhost hub; close the dialog while listing — reopen to return) / **Phone Notes** (AirDrop `Dump iPhone Notes to Brain2.shortcut` → Telegram `iphone-notes:` → iPhone Notes Store) — both notes dialogs bulk-add with the same `Folder: List:` headers, so a second colon creates a new folder by name; **Lists** board with
 Win98-style folders, custom attributes, orb icons, CSV import, and per-folder All
 Items; Scheduler period funnel (Always→Year→Month→Week→Day); Home dashboard

diff --git a/docs/CANONICAL_FIELDS.md b/docs/CANONICAL_FIELDS.md
@@ -153,6 +153,7 @@ future cleanup does not collapse them.
 | `scheduledWeek` | `string?` (`"YYYY-..._..."`) | canonical | yes (string) | yes | Coarse schedule level. |
 | `scheduledMonth` | `string?` (`"YYYY-MM"`) | canonical | yes (string) | yes | Coarse schedule level. |
 | `scheduledYear` | `string?` (`"YYYY"`) | canonical | yes (string) | yes | Coarse schedule level. |
+| `schedulePlacements` | `{ period, value }[]?` | canonical | yes | yes | Prior period placements kept when an unfinished schedule rolls up; gray past funnel cells read these. Automatic roll-up does not increment push counters. |
 | `deadline` | `Date?` | canonical | yes (Date-revived) | yes | In `DATE_KEYS`. |
 | `scheduleable` | `boolean?` | canonical | yes | no | Per-item override; resolved by `isTaskScheduleable` (else list/folder default). |
 | `dependencies` | `string[]?` (task ids) | canonical | yes | yes | Critical-path / Gantt / project network. |
